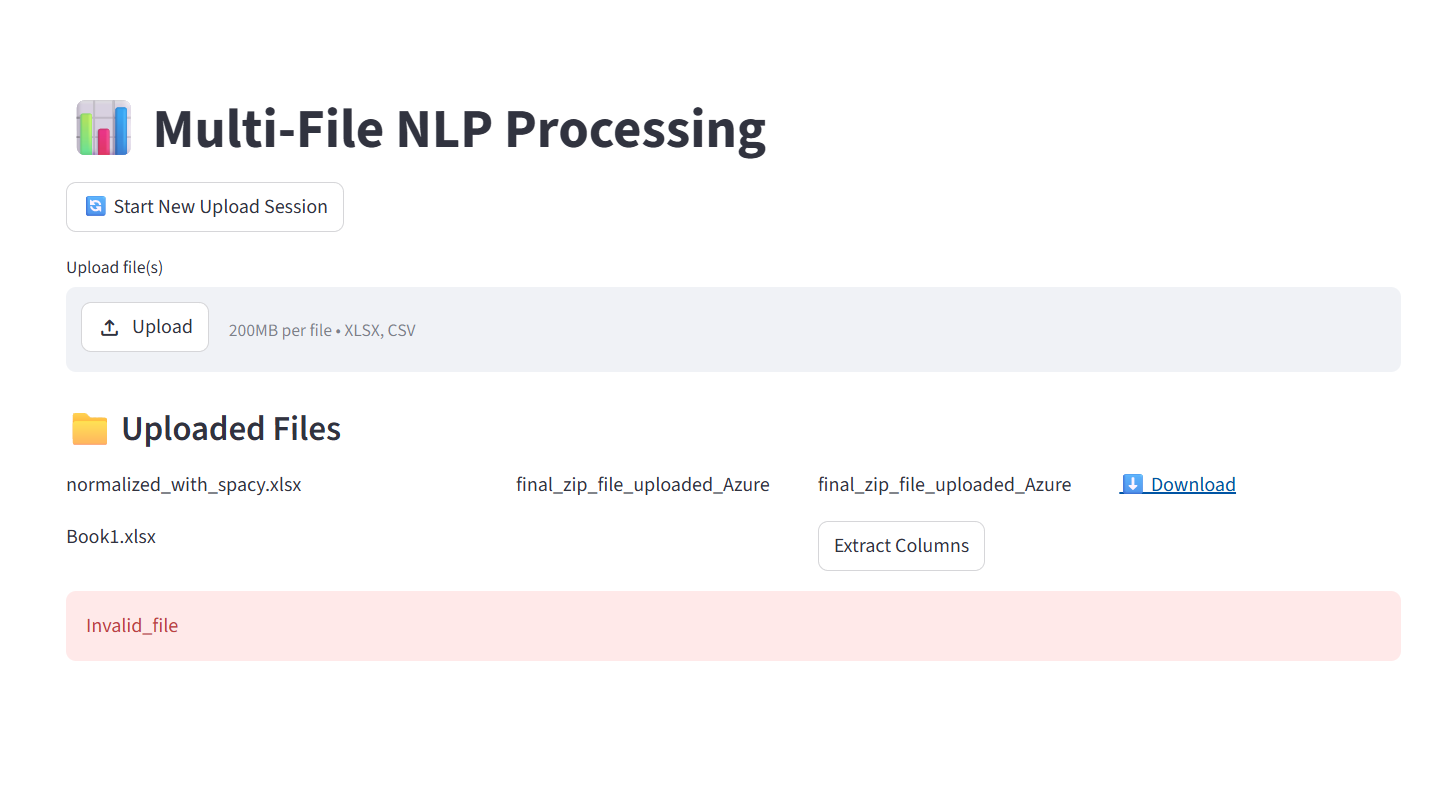
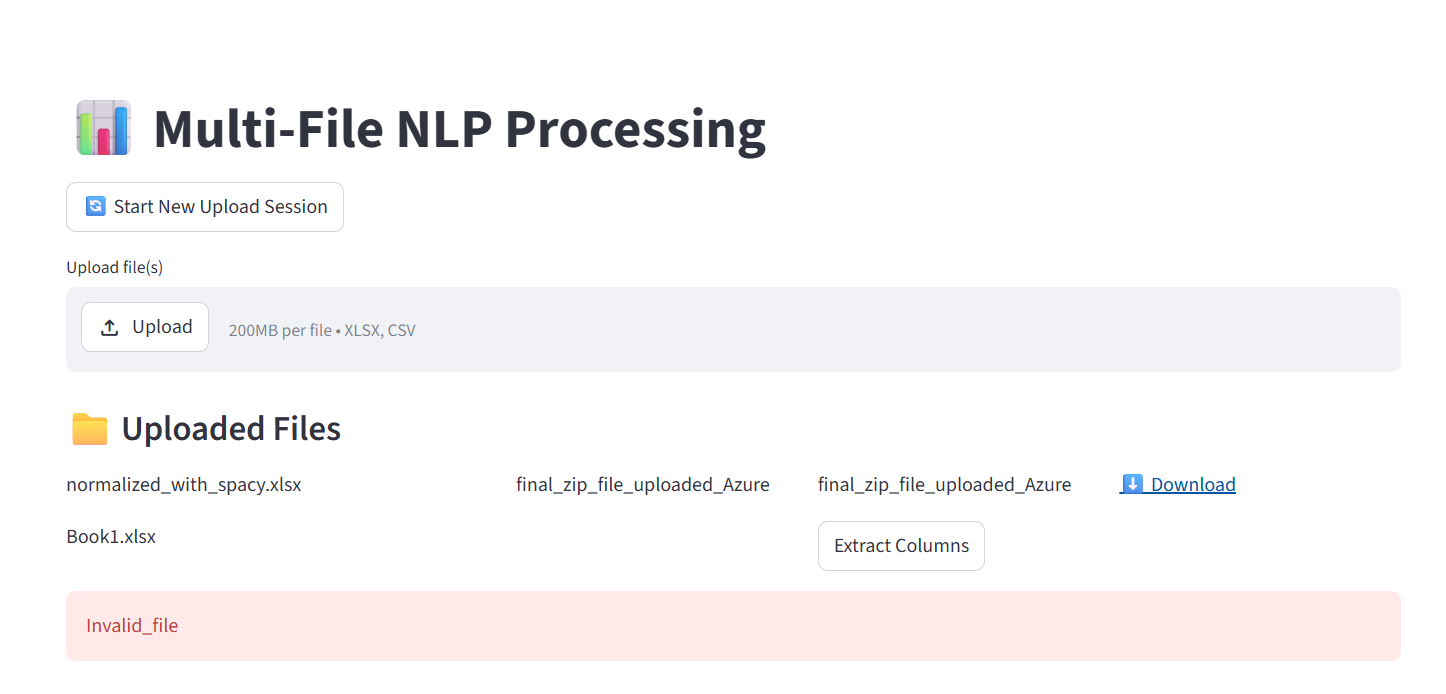
Enhance README with autoscaling and RBAC architecture

diff --git a/README.md b/README.md
@@ -1,4 +1,4 @@
-# CloudScale NLP Platform
+# 1. CloudScale NLP Platform
 
   A cloud-native, scalable NLP processing platform built using FastAPI, Celery, Redis, PostgreSQL, Azure Container Apps, and Streamlit. The platform supports distributed text normalization and NLP processing workloads using asynchronous microservices architecture.
 
@@ -61,7 +61,7 @@
 
   ## NLP Features Implemented
 
-   ### Part-of-Speech (POS) Tagging 
+   ### 1. Part-of-Speech (POS) Tagging 
     Extracts grammatical roles for tokens in text.
 
     Example:
@@ -69,14 +69,14 @@
     loved -> VERB
     service -> NOUN
     
-   ### Dependency Parsing
+   ### 2. Dependency Parsing
     Performs syntactic dependency analysis to understand relationships between words.
 
     Example:
     loved -> VERB -> ROOT
     service -> NOUN -> dobj
    
-   ### Named Entity Recognition (NER)
+   ### 3. Named Entity Recognition (NER)
     Identifies entities such as:
 
     * Organizations
@@ -89,7 +89,7 @@
     Microsoft -> ORG
     India -> GPE
    
-   ### Keyphrase Extraction
+   ### 4. Keyphrase Extraction
     Semantic keyphrase extraction is performed using transformer embeddings and vector similarity scoring.
 
     Features: